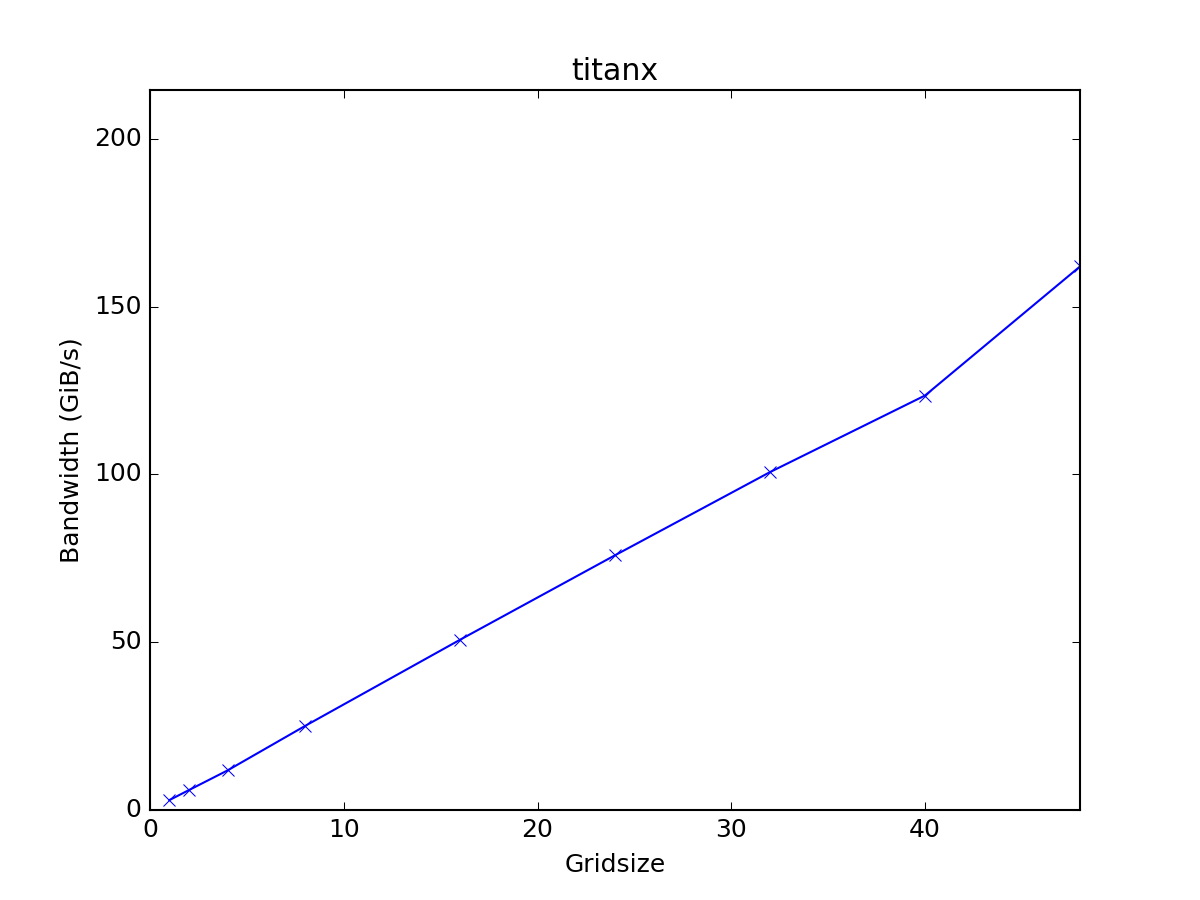
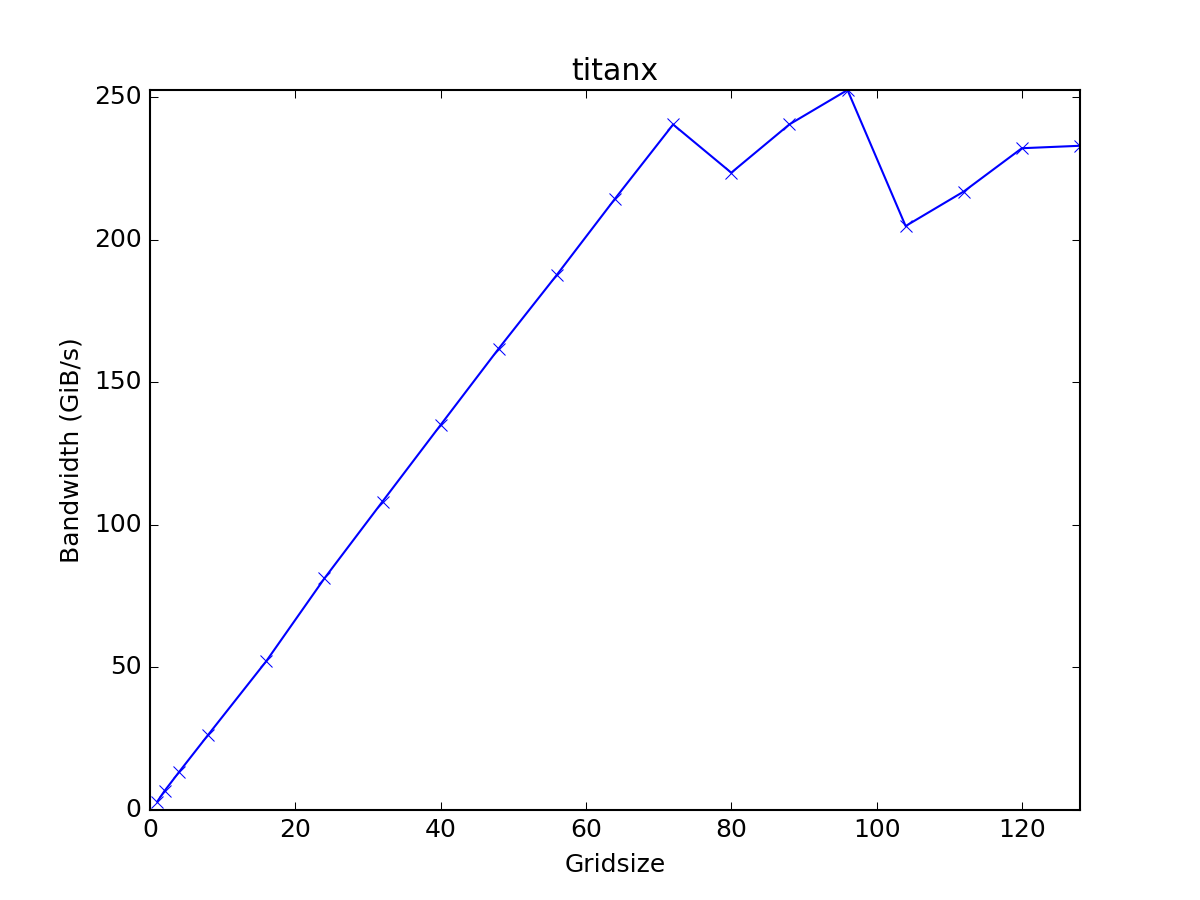
update gridsize graph for titanx

diff --git a/gpuexperiments/globalwrite_gridsize_graphs.py b/gpuexperiments/globalwrite_gridsize_graphs.py
@@ -65,7 +65,8 @@ for i, name in enumerate(names):
     plt.plot(X, Y, '-x', label=name)
     thismax = max(thismax, max(Y))
     maxx = max(maxx, max(X))
-maxx = 48
+if args.devicename == '940m':
+    maxx = 48
 
 #plt.axis([0, max(X), 0, max(Y)])
 plt.axis([0, maxx, 0, thismax])
